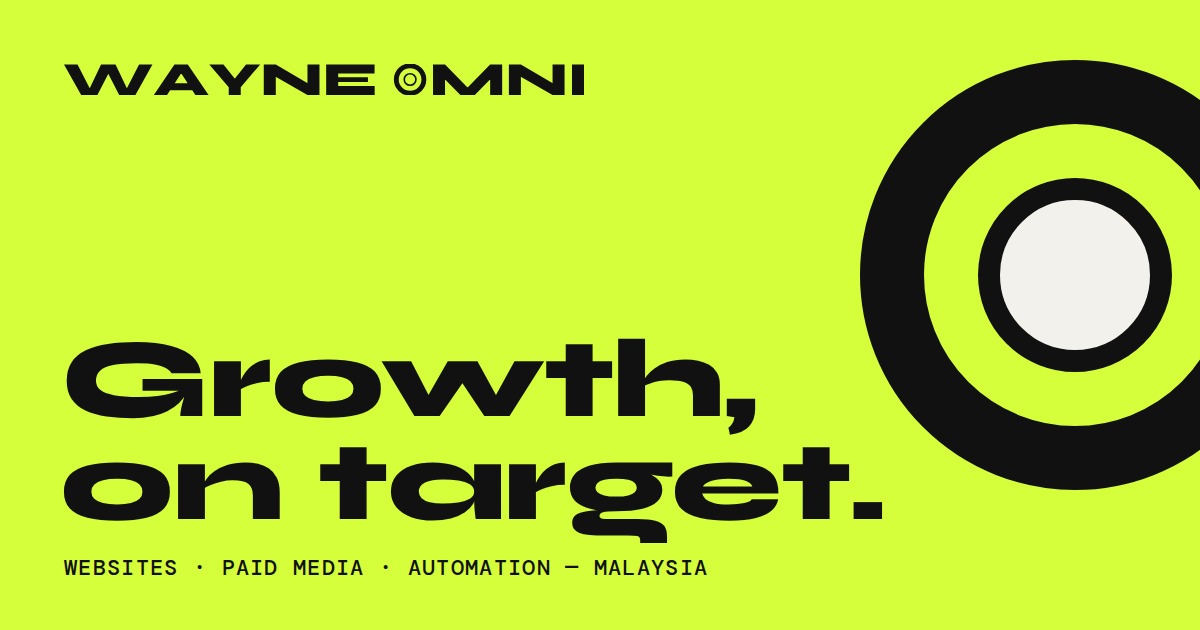
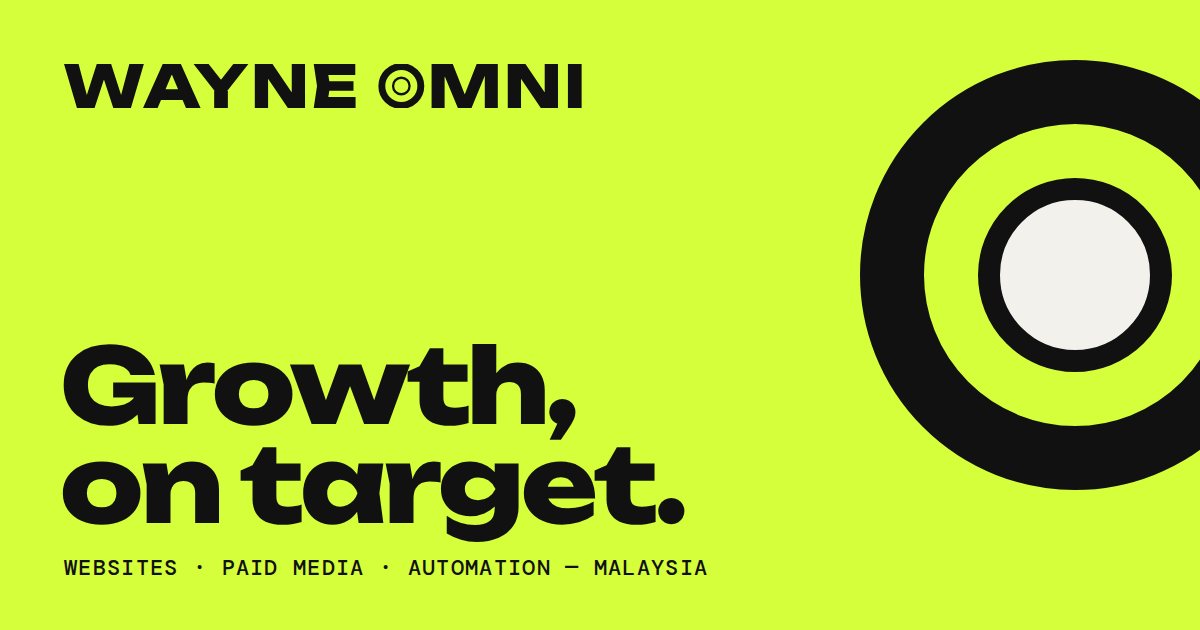
Switch display font and wordmark from Syne to Unbounded
- Headlines use Unbounded Variable (self-hosted); Syne package removed
- Wordmark redrawn from Unbounded ExtraBold outlines (HarfBuzz layout), OG image updated
- Size tweaks for FAQ and insight card headings; overflow check clean on all 32 routes

Claude-Session: https://claude.ai/code/session_01PUK7TmDFPz9GDE1Tqfk7Sv

Changed region(s): [[0.0308, 0.5429, 0.74, 0.8746], [0.0617, 0.0905, 0.4933, 0.181]]

diff --git a/src/styles/signal.css b/src/styles/signal.css
@@ -28,7 +28,7 @@
   --metal: #dad8d0;
   --metal-light: #eceae3;
   --metal-dark: #77756e;
-  --display: "Syne Variable", "Arial Black", "Helvetica Neue", sans-serif;
+  --display: "Unbounded Variable", "Arial Black", "Helvetica Neue", sans-serif;
   --body: "Instrument Sans Variable", ui-sans-serif, system-ui, -apple-system, "Segoe UI", sans-serif;
   --mono: "DM Mono", ui-monospace, SFMono-Regular, Menlo, monospace;
   --pill: 999px;
@@ -458,6 +458,7 @@ body:has(.filters, .service-subnav, .insight-filter-shell) .site-header.scrolled
 .dark-section .process-list li::before, .service-process .process-list li::before { color: var(--lime); }
 .detailed-process li { border-color: rgba(242,241,236,.16); }
 .detailed-process p { color: #b4b2aa; font-size: .98rem; }
+.service-faq .service-section-heading h2 { font-size: clamp(2.1rem, 3.3vw, 3.7rem); }
 .faq-list summary span { font-family: var(--mono); font-weight: 500; color: var(--ink); }
 .faq-list summary i { width: 2.2rem; height: 2.2rem; display: grid; place-items: center; border-radius: 50%; background: var(--lime); border: 2px solid var(--ink); font-size: 1.1rem; }
 .faq-list .faq-answer p { font-size: .98rem; }

diff --git a/MOTION.md b/MOTION.md
@@ -72,8 +72,8 @@ Styles live in `src/styles/enhancements.css` (loaded after `global.css`); behavi
 
 The visual identity moved from the cobalt "Bauhaus metal" layer to the **Signal** theme, matched to the new wordmark (Ink #111111, Signal lime #D4FF3A, Paper #F2F1EC). The old identity block was removed from `global.css`; `src/styles/signal.css` now holds the brand layer and loads after `global.css` (base layout + motion system) and before `enhancements.css`.
 
-- **Tokens.** Legacy names are aliased so older rules still work: `--cobalt` means "the accent that reads on this surface" (ink on light/lime, lime on ink — dark surfaces redefine it), `--green` is lime, `--signal-red` is ink. New: `--lime`, `--display` (Syne Variable), `--body` (Instrument Sans Variable), `--mono` (DM Mono), `--pill`, `--radius`. Fonts are self-hosted through `@fontsource` packages imported in `BaseLayout.astro`.
-- **Logo.** `Wordmark.astro` renders "WAYNE ◎MNI" from vector outlines in `src/data/wordmark.json` (Syne ExtraBold converted to paths), using `currentColor` plus `--wm-core` for the target centre. Static files: `public/images/wayne-omni-wordmark(.svg|-light.svg)`, `wayne-omni-symbol.svg`, `icon-512.png` (schema logo), `apple-touch-icon.png`, `favicon-32.png`, `public/favicon.svg`, and a new `public/og.png`. The old brush-logo files are kept but no longer referenced.
+- **Tokens.** Legacy names are aliased so older rules still work: `--cobalt` means "the accent that reads on this surface" (ink on light/lime, lime on ink — dark surfaces redefine it), `--green` is lime, `--signal-red` is ink. New: `--lime`, `--display` (Unbounded Variable), `--body` (Instrument Sans Variable), `--mono` (DM Mono), `--pill`, `--radius`. Fonts are self-hosted through `@fontsource` packages imported in `BaseLayout.astro`.
+- **Logo.** `Wordmark.astro` renders "WAYNE ◎MNI" from vector outlines in `src/data/wordmark.json` (Unbounded ExtraBold converted to paths), using `currentColor` plus `--wm-core` for the target centre. Static files: `public/images/wayne-omni-wordmark(.svg|-light.svg)`, `wayne-omni-symbol.svg`, `icon-512.png` (schema logo), `apple-touch-icon.png`, `favicon-32.png`, `public/favicon.svg`, and a new `public/og.png`. The old brush-logo files are kept but no longer referenced.
 - **Header.** Logo on the left, floating white pill nav on the right. The logo fades out once the page scrolls; sticky filter/sub-nav bars sit under the header and slide to the top while it is hidden (`body:has(.site-header.header-hidden)`).
 - **Home.** `HeroCharacter.astro` is the brand "character" slot: the target drawn as an eye whose pupil follows the pointer (idle glance on touch, blinks, static with reduced motion). Replace the `<svg>` inside `[data-character-slot]` to drop in a commissioned mascot. `SignalValues.astro` renders AIM / BUILD / GROW as scroll-driven words. `ServiceRows.astro` (home and services index) replaces the old skewed carousel, which has been deleted: big rows that flip colour on hover with a floating preview card on fine pointers.
 - **Copy.** Headlines were made more playful (e.g. "Growth, on target.", "Proof, not promises.", "Hello. Let's grow."); service, case-study and article content is unchanged.
